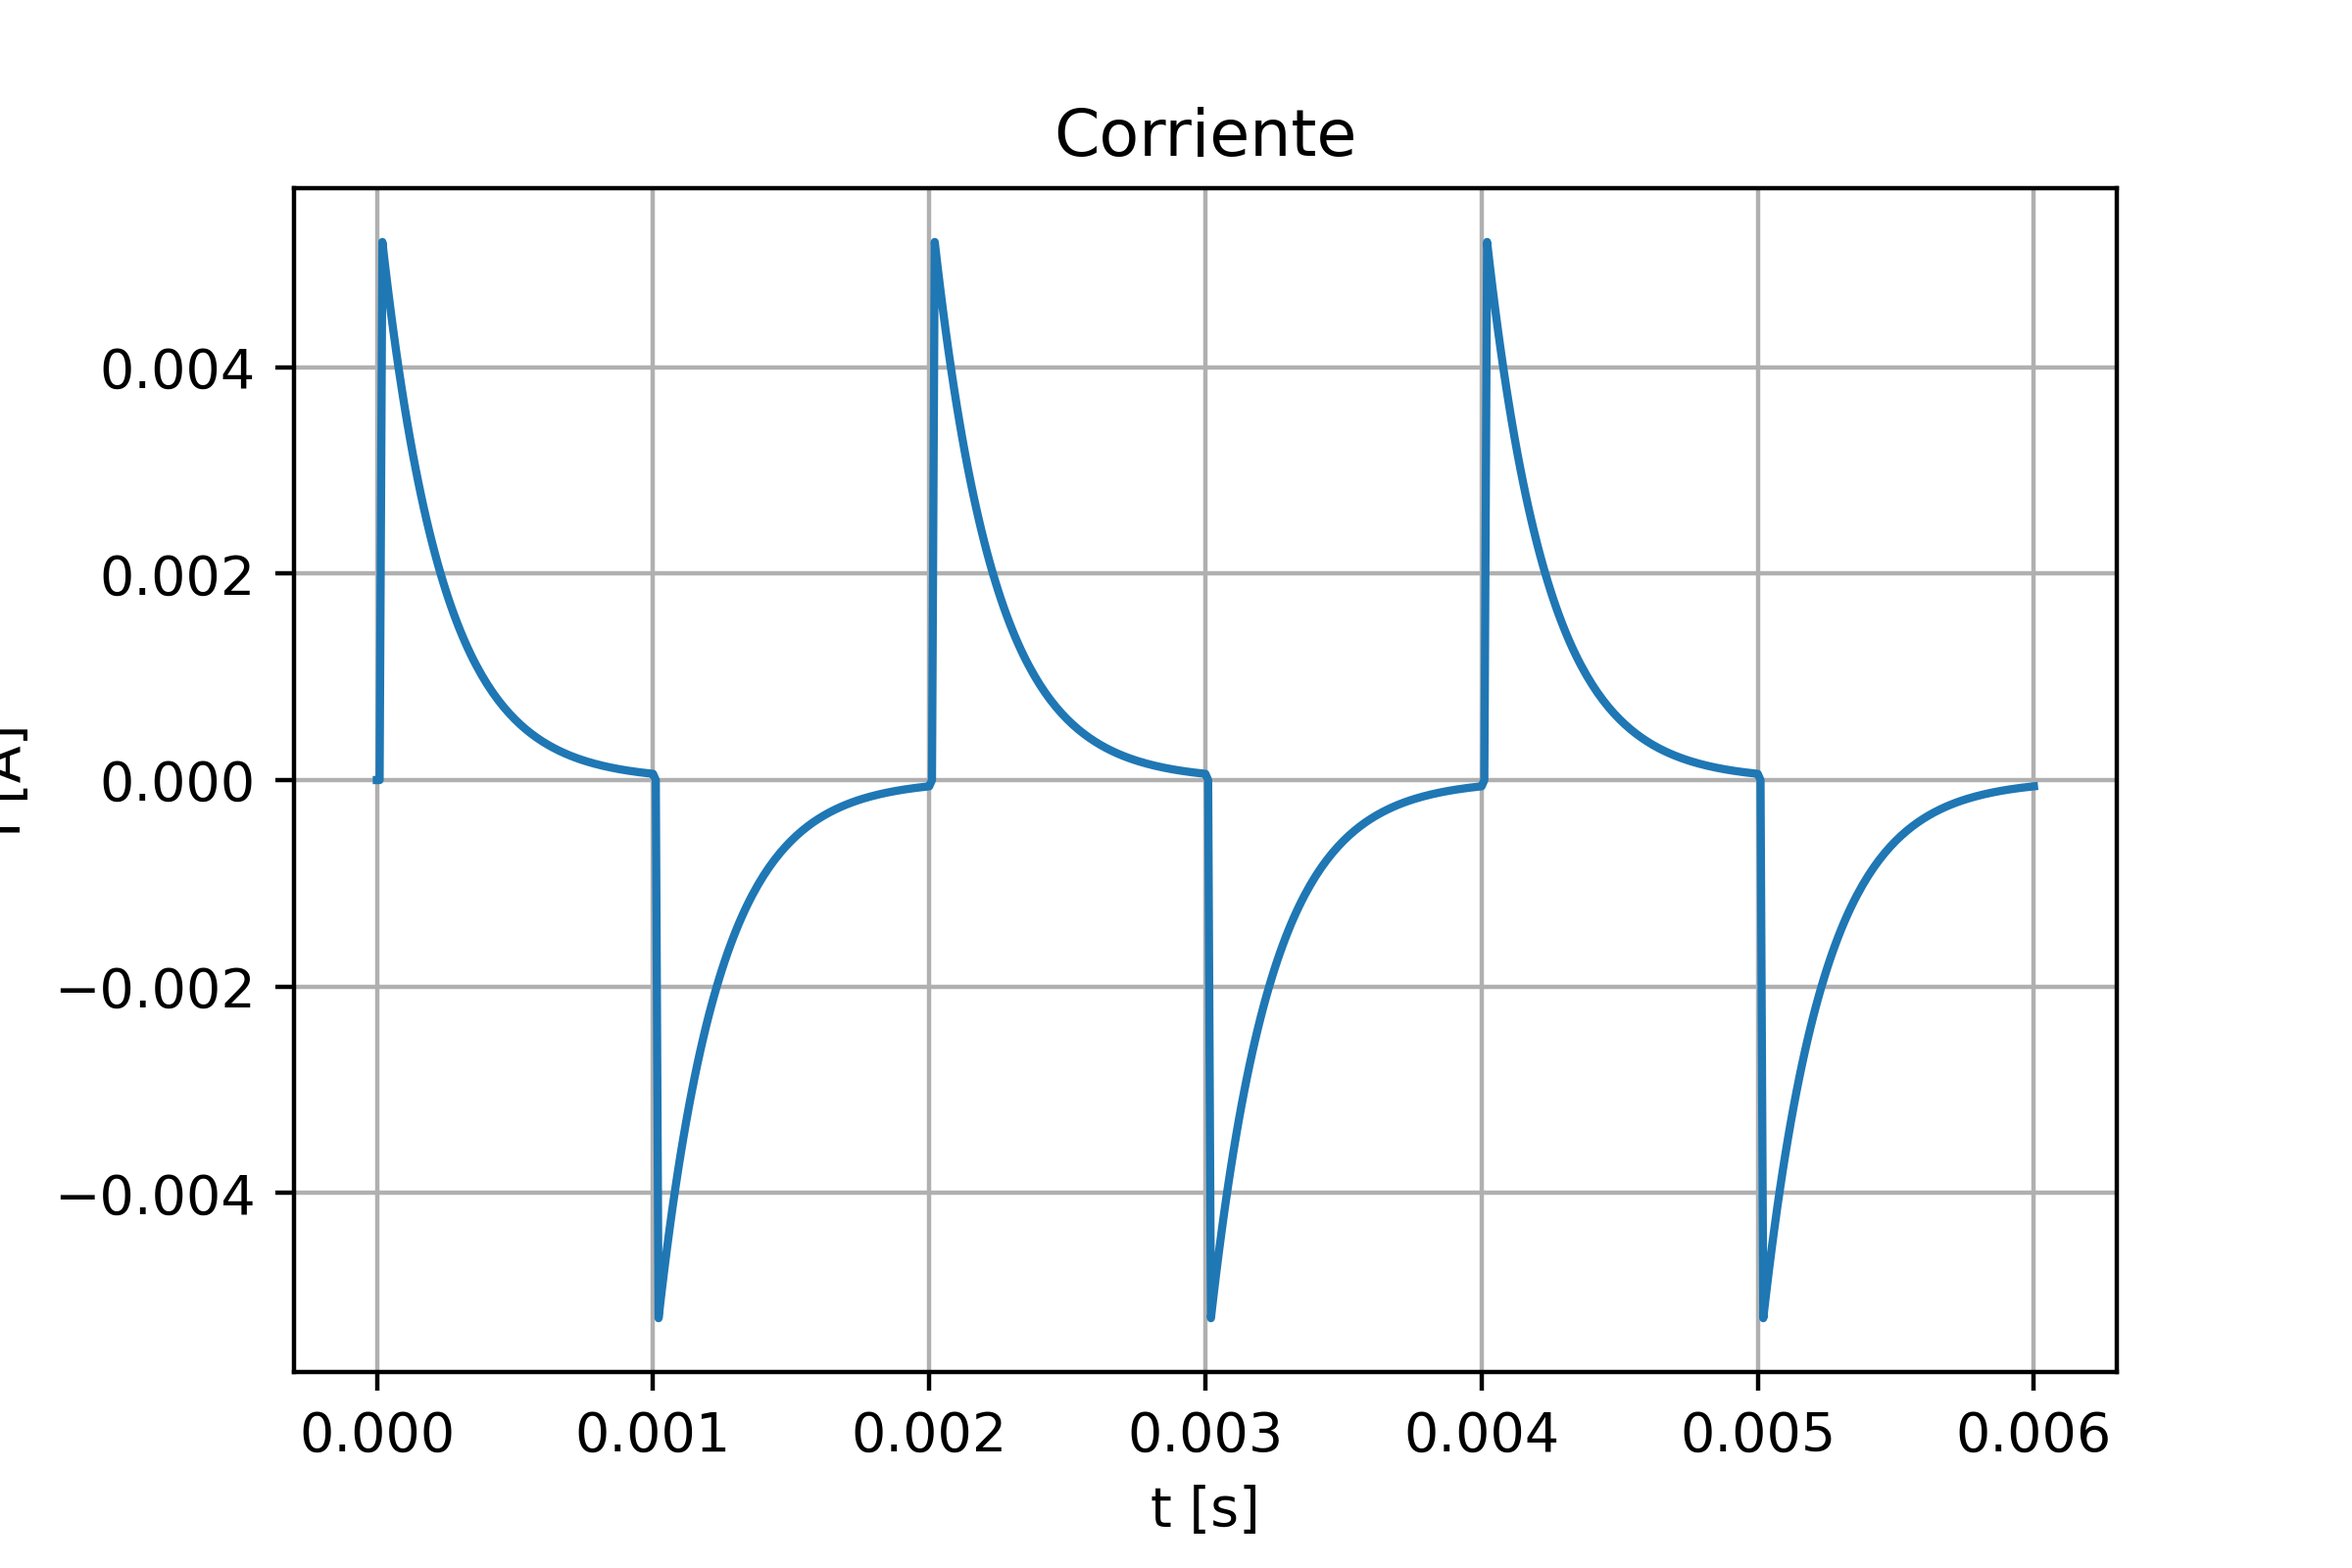
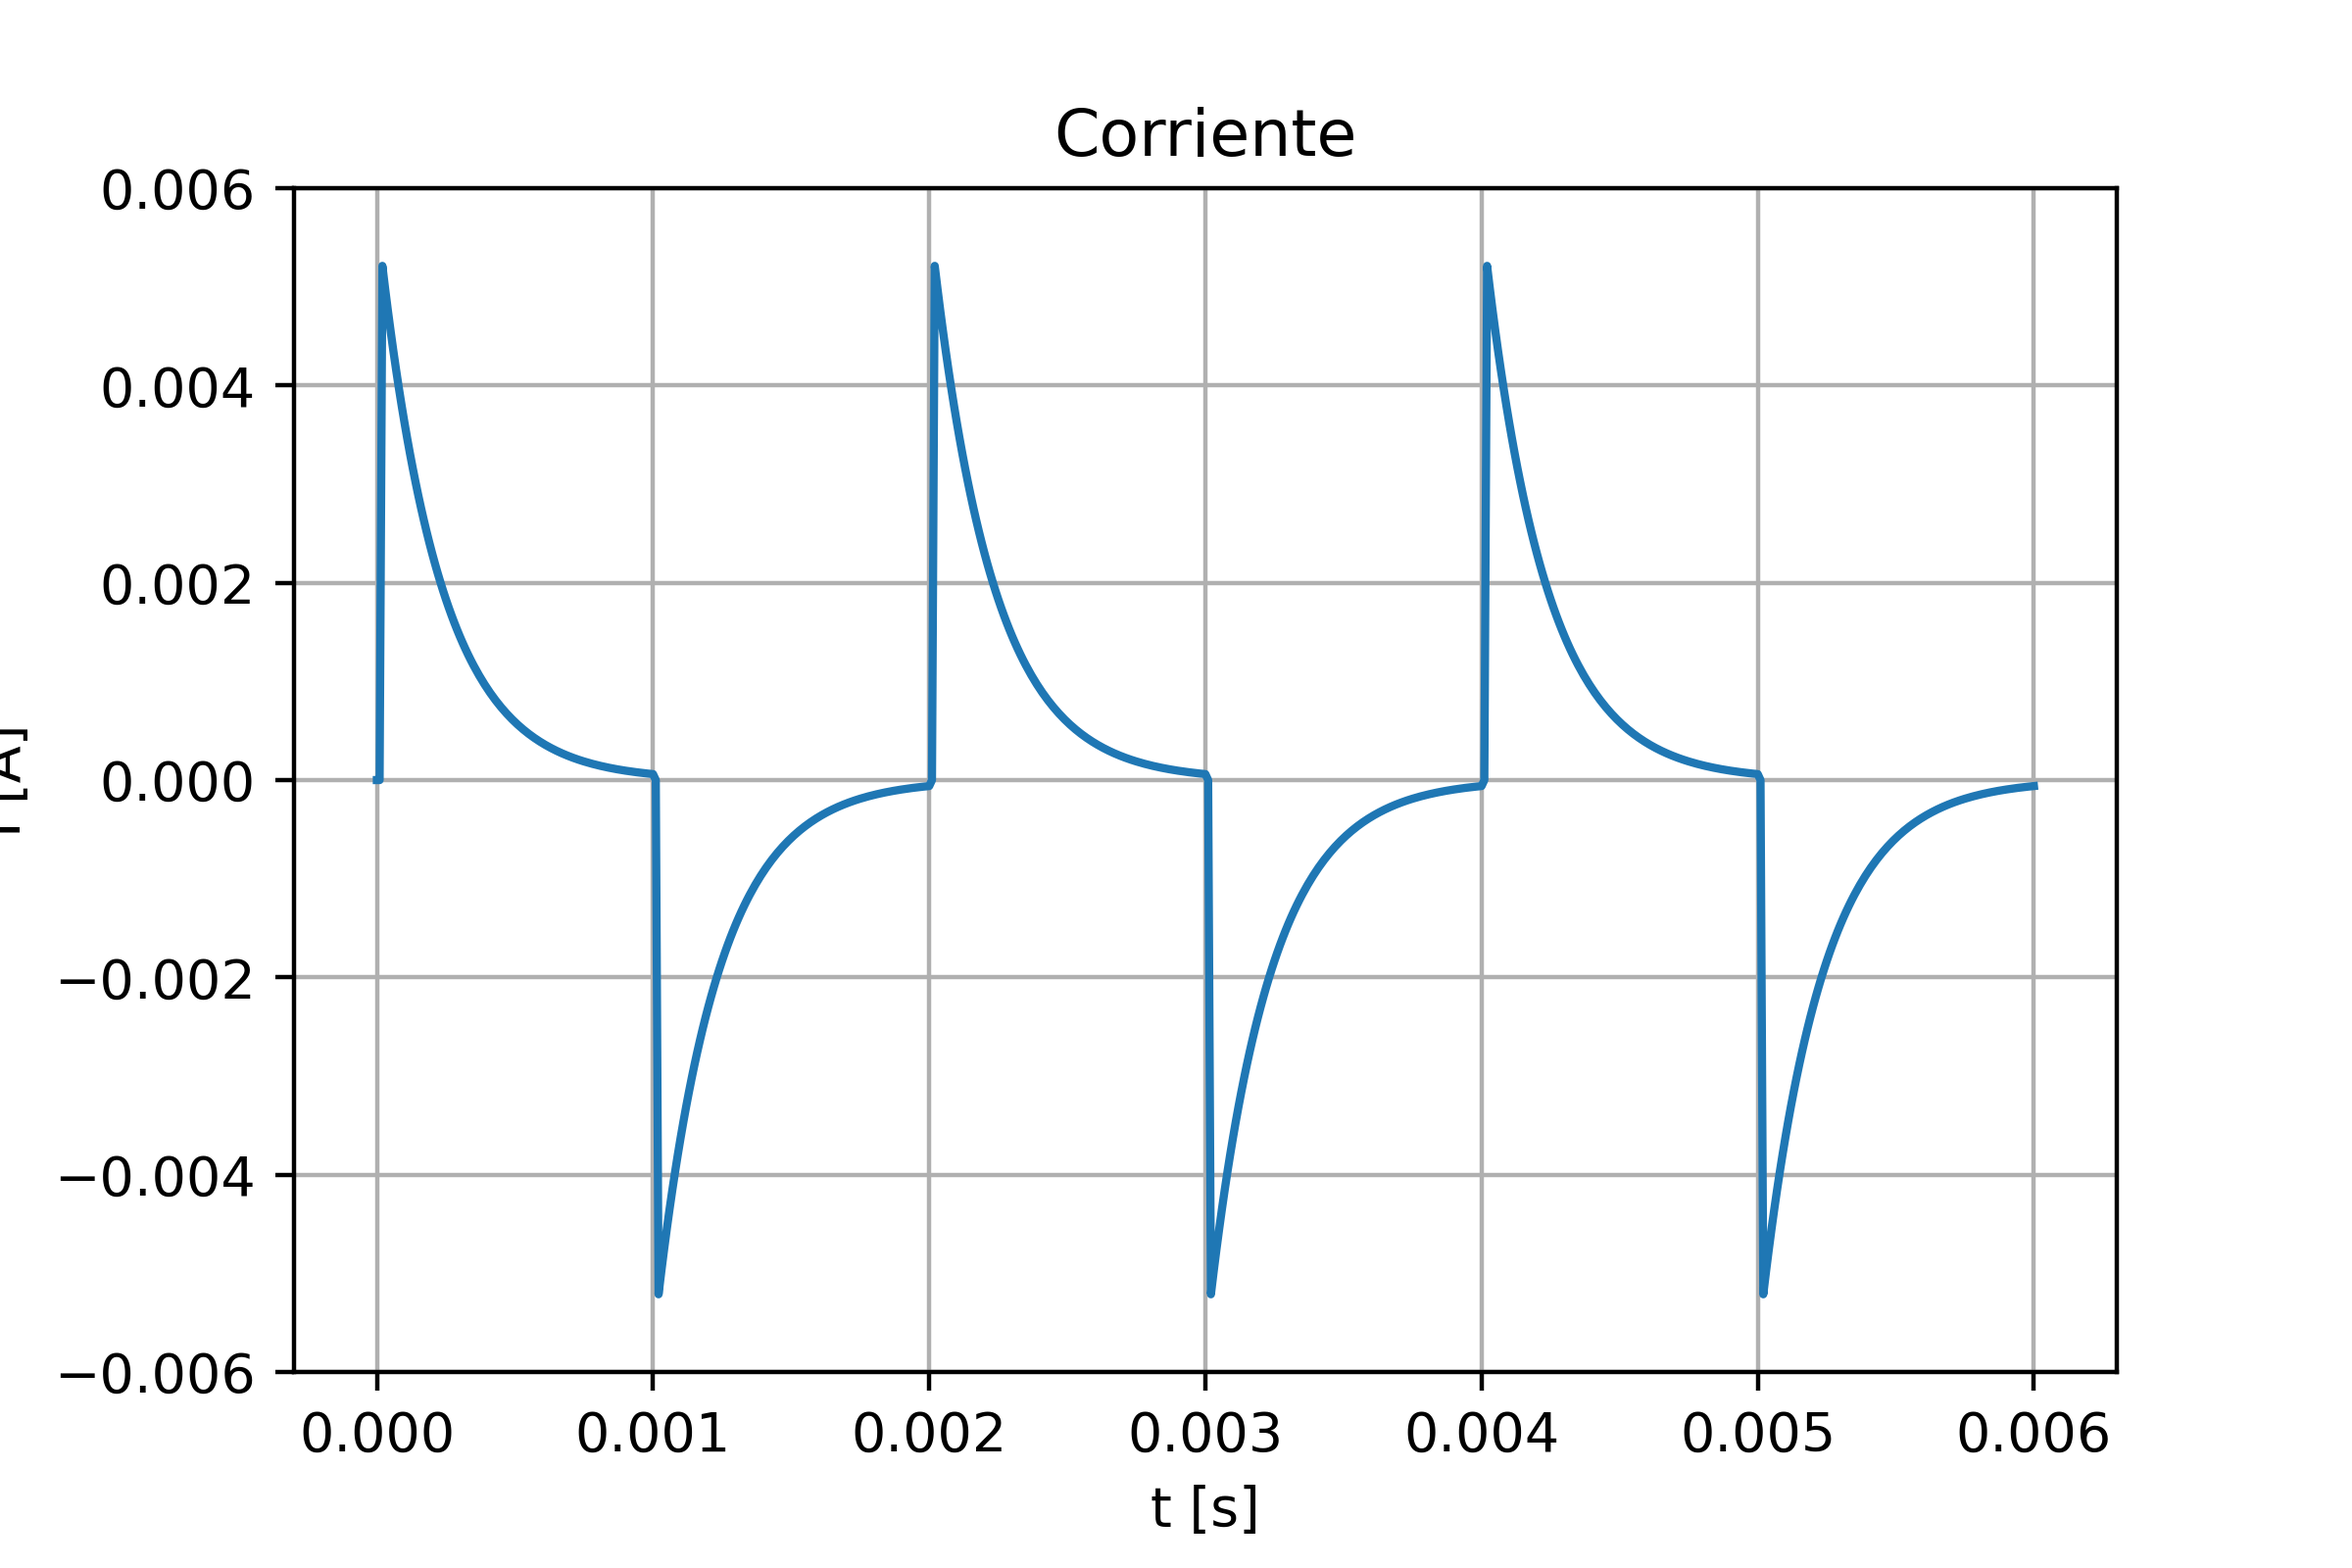
Limpieza de codigo

diff --git a/Clase_1/M1.py b/Clase_1/M1.py
@@ -4,7 +4,7 @@ Created on Sun Mar 19 19:18:19 2023
 @author: Martín Paredes
 """
 
-#%%
+#%%%%%%%%%%%%%%%%%%%%%%%%%%%%%%%%%%%%%%%%%%
 
 import numpy as np
 import matplotlib.pyplot as plt
@@ -22,6 +22,7 @@ def mod_rlc(delta_t, x_ant, accion):
     return x
 
 # Ejercicio 1a
+
 t       = np.linspace(0, 20, num=300)
 tf      = 3
 ten     = 12 - 8 * np.sqrt(3) * np.exp(-t/2) * np.sin( np.sqrt(3) * t/2 + np.pi/3 )
@@ -44,6 +45,8 @@ for i in range(int(n)):
   acc.append(u)
 
 t2 = np.linspace(0, tf, num=int(n))
+
+# Gráficas
 
 fig, ax = plt.subplots(dpi=400)
 ax.plot(t,ten, label='Analítica')
@@ -70,32 +73,9 @@ plt.grid(visible = True, which = 'both', axis = 'both')
 plt.savefig('Ejercicio-1a-1b_corriente.png', dpi=400, format='png', orientation='landscape')
 plt.show()
 
-# writefile modrlc.m
-
-'''
-function [X]=modrlc(t_etapa, xant, accion)
-h       = 1e-9
-t_simul = 1e-3
-R       = 2.2e3
-L       = 10e-6
-C       = 100e-9
-
-A       = [-R/L, -1/L;1/C,0]
-B       = [1/L;0] 
-C       = [R 0]
-x       = xant
-for ii=1:t_etapa/h 
-xp=A*x+B*u; 
-x=x+xp*h; 
-end 
-X=[x];%x1 corriente, x2 tensión
-''' 
-
-
-#%%
+#%%%%%%%%%%%%%%%%%%%%%%%%%%%%%%%%%%%%%%%%%%
 
 # Ejercicio 2
-# ATENCIÓN: PENDIENTE DE CHEQUEAR
 
 import numpy as np
 import matplotlib.pyplot as plt
@@ -122,8 +102,6 @@ corr    = 8.67361737988404e-19\
 
 fig, ax = plt.subplots(dpi=400)
 ax.plot(t,ten)
-#ax.set_xlim(0.0,20.0)
-#ax.set_ylim(0.0,15.0)
 ax.set_title('Tensión (voltaje) del capacitor')
 ax.set_xlabel('t [s]')
 ax.set_ylabel('Vc [V]')
@@ -132,8 +110,6 @@ plt.savefig('Ejercicio-2_tension.png', dpi=400, format='png', orientation='lands
 
 fig, bx = plt.subplots(dpi=400)
 bx.plot(t,corr)
-#bx.set_xlim(0.0,20.0)
-#bx.set_ylim(-2.0,7.0)
 bx.set_title('Corriente')
 bx.set_xlabel('t [s]')
 bx.set_ylabel('I [A]')
@@ -141,7 +117,7 @@ plt.grid(visible = True, which = 'both', axis = 'both')
 plt.savefig('Ejercicio-2_corriente.png', dpi=400, format='png', orientation='landscape')
 plt.show()
 
-#%%
+#%%%%%%%%%%%%%%%%%%%%%%%%%%%%%%%%%%%%%%%%%%
 
 # Ejercicio 3
 
@@ -182,50 +158,10 @@ for i in range(6):
             corr.append(- 8.67361737988404e-19\
                         + 0.00545477086295743*np.exp(-219995454.451536*t[j])\
                         - 0.00545477086295742*np.exp(-4545.5484636724*t[j]))
-'''    
-for i in range(1,6*n+1):
-    if k1 > 0:
-        if k2 == 0:
-            ten[i]  = ten[i-1] + 12 - 0.000247949253158732*np.exp(-219995454.451536*t[i])\
-                -12.0002479492532*np.exp(-4545.5484636724*t[i])
-            corr[i] = corr[i-1] + 8.67361737988404e-19\
-                - 0.00545477086295743*np.exp(-219995454.451536*t[i])\
-                + 0.00545477086295742*np.exp(-4545.5484636724*t[i])
-        else:
-            ten[i]  = 12 - 0.000247949253158732*np.exp(-219995454.451536*t[i])\
-                -12.0002479492532*np.exp(-4545.5484636724*t[i])
-            corr[i] = 8.67361737988404e-19\
-                - 0.00545477086295743*np.exp(-219995454.451536*t[i])\
-                + 0.00545477086295742*np.exp(-4545.5484636724*t[i])
-        k2 += 1
-        if k2 == 100:
-            k1 = -1
-            k2 = 0
-            continue
-    if k1 < 0:
-        if k2 == 0:
-            ten[i]  = ten[i-1] - 0.000247949253158732*np.exp(-219995454.451536*t[i])\
-                -12.0002479492532*np.exp(-4545.5484636724*t[i])
-            corr[i] = corr[i-1] -8.67361737988404e-19\
-                + 0.00545477086295743*np.exp(-219995454.451536*t[i])\
-                - 0.00545477086295742*np.exp(-4545.5484636724*t[i])
-        else:
-            ten[i]  = - 0.000247949253158732*np.exp(-219995454.451536*t[i])\
-                -12.0002479492532*np.exp(-4545.5484636724*t[i])
-            corr[i] = -8.67361737988404e-19\
-                + 0.00545477086295743*np.exp(-219995454.451536*t[i])\
-                - 0.00545477086295742*np.exp(-4545.5484636724*t[i])
-        k2 += 1
-        if k2 == 100:
-            k1 = 1
-            k2 = 0
-            continue
-'''
 
 fig, ax = plt.subplots(dpi=400)
 ax.plot(tiempo,ten)
-#ax.set_xlim(0.0,20.0)
-#ax.set_ylim(0.0,15.0)
+ax.set_ylim(-14.0,14.0)
 ax.set_title('Tensión (voltaje) del capacitor')
 ax.set_xlabel('t [s]')
 ax.set_ylabel('Vc [V]')
@@ -234,8 +170,7 @@ plt.savefig('Ejercicio-3_tension.png', dpi=400, format='png', orientation='lands
 
 fig, bx = plt.subplots(dpi=400)
 bx.plot(tiempo,corr)
-#bx.set_xlim(0.0,20.0)
-#bx.set_ylim(-2.0,7.0)
+bx.set_ylim(-0.006,0.006)
 bx.set_title('Corriente')
 bx.set_xlabel('t [s]')
 bx.set_ylabel('I [A]')
